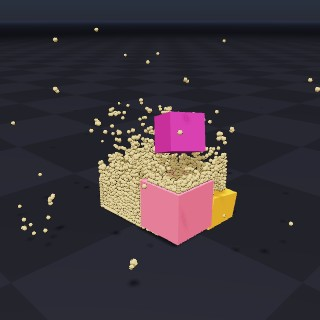
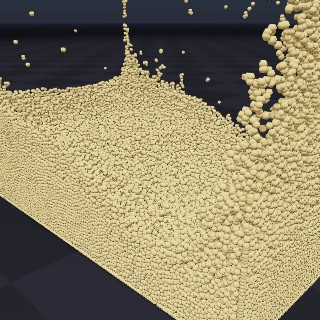
Improve position based fluids

diff --git a/newton/examples/pbf/example_pbf_dam_break.py b/newton/examples/pbf/example_pbf_dam_break.py
@@ -5,10 +5,10 @@
 # Example PBF Dam Break
 #
 # Demonstrates Position-Based Fluids (PBF) integrated into the XPBD solver.
-# A column of fluid particles collapses under gravity and interacts with
-# rigid bodies and container walls.
+# A column of fluid particles collapses under gravity and spreads across
+# an initially empty tank.
 #
-# Material parameters follow the PhysX PBD default material.
+# The optional material effects can be adjusted from the command line.
 #
 # Command: python -m newton.examples pbf_dam_break
 #
@@ -90,63 +90,19 @@ class Example:
         print(f"Particle count: {total_particles}")
         print(f"Fluid block: {fluid_extent_x:.2f} x {fluid_extent_y:.2f} x {fluid_extent_z:.2f} m")
 
-        # --- Container walls (invisible static boxes) ---
-        wall_thickness = 0.1
+        # --- Container walls ---
+        containment_tolerance = 0.1
         container_hx = fluid_extent_x * 0.9
         container_hy = fluid_extent_y * 0.55
-        container_hz = fluid_extent_z * 1.2
+        container_hz = fluid_extent_z * 1.8
 
         wall_cfg = newton.ModelBuilder.ShapeConfig(mu=0.3, is_visible=False)
-
-        # back wall (-X)
-        builder.add_shape_box(
-            body=-1,
-            cfg=wall_cfg,
-            xform=wp.transform(wp.vec3(-container_hx - wall_thickness, 0.0, container_hz * 0.5), wp.quat_identity()),
-            hx=wall_thickness,
-            hy=container_hy + wall_thickness,
-            hz=container_hz * 0.5,
-        )
-        # front wall (+X)
-        builder.add_shape_box(
-            body=-1,
-            cfg=wall_cfg,
-            xform=wp.transform(wp.vec3(container_hx + wall_thickness, 0.0, container_hz * 0.5), wp.quat_identity()),
-            hx=wall_thickness,
-            hy=container_hy + wall_thickness,
-            hz=container_hz * 0.5,
-        )
-        # left wall (-Y)
-        builder.add_shape_box(
-            body=-1,
-            cfg=wall_cfg,
-            xform=wp.transform(wp.vec3(0.0, -container_hy - wall_thickness, container_hz * 0.5), wp.quat_identity()),
-            hx=container_hx + wall_thickness,
-            hy=wall_thickness,
-            hz=container_hz * 0.5,
-        )
-        # right wall (+Y)
-        builder.add_shape_box(
-            body=-1,
-            cfg=wall_cfg,
-            xform=wp.transform(wp.vec3(0.0, container_hy + wall_thickness, container_hz * 0.5), wp.quat_identity()),
-            hx=container_hx + wall_thickness,
-            hy=wall_thickness,
-            hz=container_hz * 0.5,
-        )
-
-        # --- Dynamic rigid bodies ---
-        box_cfg = newton.ModelBuilder.ShapeConfig(density=300.0, mu=0.3)
-        box_size = particle_spacing * 6.0
-
-        b = builder.add_body(xform=wp.transform(wp.vec3(0.2, 0.0, box_size), wp.quat_identity()))
-        builder.add_shape_box(body=b, cfg=box_cfg, hx=box_size, hy=box_size, hz=box_size)
-
-        b = builder.add_body(xform=wp.transform(wp.vec3(0.2, 0.0, box_size * 3.5), wp.quat_identity()))
-        builder.add_shape_box(body=b, cfg=box_cfg, hx=box_size * 0.7, hy=box_size * 0.7, hz=box_size * 0.7)
-
-        b = builder.add_body(xform=wp.transform(wp.vec3(0.05, 0.2, box_size), wp.quat_identity()))
-        builder.add_shape_box(body=b, cfg=box_cfg, hx=box_size * 0.8, hy=box_size * 0.8, hz=box_size * 0.8)
+        # Infinite planes remain robust when a density correction moves a
+        # particle beyond the nominal wall within one solver iteration.
+        builder.add_shape_plane((1.0, 0.0, 0.0, container_hx), width=0.0, length=0.0, cfg=wall_cfg)
+        builder.add_shape_plane((-1.0, 0.0, 0.0, container_hx), width=0.0, length=0.0, cfg=wall_cfg)
+        builder.add_shape_plane((0.0, 1.0, 0.0, container_hy), width=0.0, length=0.0, cfg=wall_cfg)
+        builder.add_shape_plane((0.0, -1.0, 0.0, container_hy), width=0.0, length=0.0, cfg=wall_cfg)
 
         # Ground
         builder.add_ground_plane(cfg=newton.ModelBuilder.ShapeConfig(mu=0.3))
@@ -183,6 +139,14 @@ class Example:
         self.contacts = self.model.contacts()
 
         self.particle_count = self.model.particle_count
+        self.particle_radius = particle_radius
+        self.container_hx = container_hx
+        self.container_hy = container_hy
+        self.container_hz = container_hz
+        self.containment_tolerance = containment_tolerance
+        self.gravity_magnitude = float(np.linalg.norm(args.gravity))
+        initial_q = self.state_0.particle_q.numpy()
+        self.initial_x_span = float(np.ptp(initial_q[:, 0]))
         self.colors = wp.zeros(self.particle_count, dtype=wp.vec3, device=self.model.device)
 
         self.viewer.set_model(self.model)
@@ -203,10 +167,33 @@ class Example:
 
     def test_final(self):
         q = self.state_0.particle_q.numpy()
-        min_z = np.min(q[:, 2])
-        max_z = np.max(q[:, 2])
-        assert min_z > -0.1, f"Particles fell through ground: min_z={min_z}"
-        assert max_z < 5.0, f"Particles exploded: max_z={max_z}"
+        qd = self.state_0.particle_qd.numpy()
+        assert len(q) == self.particle_count, f"Particle count changed: {len(q)} != {self.particle_count}"
+        assert np.isfinite(q).all(), "Particle positions contain NaN or infinity"
+        assert np.isfinite(qd).all(), "Particle velocities contain NaN or infinity"
+
+        outer_x = self.container_hx + 2.0 * self.containment_tolerance + 2.0 * self.particle_radius
+        outer_y = self.container_hy + 2.0 * self.containment_tolerance + 2.0 * self.particle_radius
+        max_abs_x = float(np.max(np.abs(q[:, 0])))
+        max_abs_y = float(np.max(np.abs(q[:, 1])))
+        min_z = float(np.min(q[:, 2]))
+        assert max_abs_x < outer_x, f"Particles leaked through an X container wall: {max_abs_x} >= {outer_x} m"
+        assert max_abs_y < outer_y, f"Particles leaked through a Y container wall: {max_abs_y} >= {outer_y} m"
+        assert min_z > -4.0 * self.particle_radius, f"Particles leaked through the ground: z={min_z} m"
+
+        speed_limit = max(10.0, 10.0 * np.sqrt(2.0 * self.gravity_magnitude * self.container_hz))
+        max_speed = float(np.max(np.linalg.norm(qd, axis=1)))
+        assert max_speed < speed_limit, f"Particle velocity is unbounded: {max_speed} >= {speed_limit} m/s"
+
+        max_height = 4.0 * self.container_hz + 1.0
+        observed_height = float(np.max(q[:, 2]))
+        assert observed_height < max_height, (
+            f"Particles escaped far above the tank: {observed_height} >= {max_height} m"
+        )
+        final_x_span = float(np.ptp(q[:, 0]))
+        assert final_x_span > 1.05 * self.initial_x_span, (
+            f"Fluid column did not spread after release: {final_x_span} <= {1.05 * self.initial_x_span} m"
+        )
 
     def render(self):
         wp.launch(
@@ -240,17 +227,12 @@ class Example:
         parser.add_argument("--dim-x", type=int, default=46, help="Fluid grid X dimension")
         parser.add_argument("--dim-y", type=int, default=46, help="Fluid grid Y dimension")
         parser.add_argument("--dim-z", type=int, default=46, help="Fluid grid Z dimension")
-        # Reference PBD material values for the supported fluid properties.
-        parser.add_argument("--relaxation", type=float, default=1.0, help="PBF SOR relaxation (PhysX=1.0)")
-        parser.add_argument("--viscosity", type=float, default=0.0001, help="PBF viscosity (PhysX default=0.0001)")
-        parser.add_argument("--cohesion", type=float, default=0.005, help="PBF cohesion (PhysX default=0.005)")
-        parser.add_argument(
-            "--surface-tension", type=float, default=0.005, help="PBF surface tension (PhysX default=0.005)"
-        )
-        parser.add_argument(
-            "--vorticity", type=float, default=5.0, help="PBF vorticity confinement (PhysX default=5.0)"
-        )
-        parser.add_argument("--cfl", type=float, default=1.0, help="PBF CFL coefficient (PhysX default=1.0)")
+        parser.add_argument("--relaxation", type=float, default=1.0, help="PBF SOR relaxation")
+        parser.add_argument("--viscosity", type=float, default=0.0001, help="PBF viscosity")
+        parser.add_argument("--cohesion", type=float, default=0.005, help="PBF cohesion")
+        parser.add_argument("--surface-tension", type=float, default=0.005, help="PBF surface tension")
+        parser.add_argument("--vorticity", type=float, default=5.0, help="PBF vorticity confinement")
+        parser.add_argument("--cfl", type=float, default=1.0, help="PBF CFL coefficient")
         parser.add_argument("--iterations", type=int, default=4, help="XPBD/PBF iterations")
         parser.add_argument("--substeps", type=int, default=8, help="Substeps per frame")
         parser.add_argument(

diff --git a/newton/tests/test_solver_xpbd.py b/newton/tests/test_solver_xpbd.py
@@ -1439,6 +1439,29 @@ def test_position_based_fluids(test, device):
     contact_positions = contact_state_1.particle_q.numpy()
     test.assertGreater(np.linalg.norm(contact_positions[1] - contact_positions[0]), 0.1)
 
+    mixed_builder = newton.ModelBuilder()
+    mixed_builder.add_particles(
+        pos=[wp.vec3(0.0), wp.vec3(0.1, 0.0, 0.0)],
+        vel=[wp.vec3(0.0)] * 2,
+        mass=[1.0] * 2,
+        radius=[0.1] * 2,
+        flags=[fluid_flags, int(newton.ParticleFlags.ACTIVE)],
+    )
+    mixed_model = mixed_builder.finalize(device=device)
+    mixed_model.set_gravity((0.0, 0.0, 0.0))
+    mixed_solver = newton.solvers.SolverXPBD(
+        mixed_model,
+        iterations=2,
+        pbf_particle_contact_distance=0.2,
+        pbf_fluid_rest_distance=0.1,
+    )
+    mixed_state_0 = mixed_model.state()
+    mixed_state_1 = mixed_model.state()
+    mixed_solver.step(mixed_state_0, mixed_state_1, mixed_model.control(), mixed_model.contacts(), 0.01)
+    mixed_positions = mixed_state_1.particle_q.numpy()
+    test.assertGreater(np.linalg.norm(mixed_positions[1] - mixed_positions[0]), 0.1)
+    np.testing.assert_allclose(np.mean(mixed_positions, axis=0), [0.05, 0.0, 0.0], atol=1.0e-6)
+
     spacing = 0.04
     positions = [wp.vec3(x * spacing, y * spacing, z * spacing) for z in range(4) for y in range(4) for x in range(4)]
     particle_count = len(positions)
@@ -1534,7 +1557,6 @@ def test_position_based_fluids_reference_stages(test, device):
     lambda_scale = 1.0 / lambda_denominator
     surface_tension = 0.003
     model.particle_grid.build(state.particle_q, radius=radius)
-
     densities = wp.zeros(particle_count, dtype=float, device=device)
     normals = wp.zeros(particle_count, dtype=wp.vec3, device=device)
     wp.launch(

diff --git a/newton/_src/solvers/xpbd/kernels.py b/newton/_src/solvers/xpbd/kernels.py
@@ -267,13 +267,11 @@ def solve_particle_particle_contacts(
     delta = wp.vec3(0.0)
 
     is_fluid_i = (particle_flags[i] & ParticleFlags.FLUID) != 0
+    if skip_fluid_fluid and is_fluid_i:
+        return
 
     while wp.hash_grid_query_next(query, index):
         if (particle_flags[index] & ParticleFlags.ACTIVE) != 0 and index != i:
-            # Skip fluid-fluid pairs — handled by PBF density constraint
-            if skip_fluid_fluid and is_fluid_i and (particle_flags[index] & ParticleFlags.FLUID) != 0:
-                continue
-
             # compute distance to point
             n = x - particle_x[index]
             d = wp.length(n)
@@ -297,7 +295,13 @@ def solve_particle_particle_contacts(
 
                 lambda_f = wp.max(k_mu * lambda_n, -wp.length(vt) * dt)
                 delta_f = wp.normalize(vt) * lambda_f
-                delta += (delta_f - delta_n) / denom
+                pair_delta = (delta_f - delta_n) / denom
+                delta += pair_delta
+
+                # Fluid threads skip this kernel because PBF resolves their
+                # mutual contacts. Apply the opposite side of a mixed pair here.
+                if skip_fluid_fluid and (particle_flags[index] & ParticleFlags.FLUID) != 0:
+                    wp.atomic_sub(deltas, index, pair_delta * w2 * relaxation)
 
     wp.atomic_add(deltas, i, delta * w1 * relaxation)
 

diff --git a/newton/_src/solvers/xpbd/pbf_kernels.py b/newton/_src/solvers/xpbd/pbf_kernels.py
@@ -99,7 +99,11 @@ def solve_density(
     weights: wp.array[float],
 ):
     i = wp.hash_grid_point_id(grid, wp.tid())
-    if i < 0 or not _is_active_fluid(particle_flags[i]) or particle_inv_mass[i] == 0.0:
+    if i < 0 or not _is_active_fluid(particle_flags[i]):
+        return
+    if particle_inv_mass[i] == 0.0:
+        deltas[i] = wp.vec3(0.0)
+        weights[i] = 0.0
         return
 
     xi = particle_q[i]

diff --git a/newton/_src/solvers/xpbd/solver_xpbd.py b/newton/_src/solvers/xpbd/solver_xpbd.py
@@ -607,8 +607,6 @@ class SolverXPBD(SolverBase):
                                 with wp.ScopedDevice(model.device):
                                     model.particle_grid.build(particle_q, radius=grid_search_radius)
 
-                            self._pbf_densities.zero_()
-                            self._pbf_surface_normals.zero_()
                             wp.launch(
                                 kernel=calculate_density,
                                 dim=model.particle_count,
@@ -631,8 +629,6 @@ class SolverXPBD(SolverBase):
                             # Compute displacement from predicted position for viscosity/CFL
                             pbf_delta_pos = self._pbf_accum_delta
 
-                            self._pbf_deltas.zero_()
-                            self._pbf_weights.zero_()
                             wp.launch(
                                 kernel=solve_density,
                                 dim=model.particle_count,

diff --git a/newton/tests/test_examples.py b/newton/tests/test_examples.py
@@ -727,7 +727,7 @@ add_example_test(
     TestPBFExamples,
     name="pbf.example_pbf_dam_break",
     devices=cuda_test_devices,
-    test_options={"num-frames": 5, "dim-x": 8, "dim-y": 8, "dim-z": 8, "substeps": 2},
+    test_options={"num-frames": 60, "dim-x": 12, "dim-y": 8, "dim-z": 16, "substeps": 4},
     use_viewer=True,
 )
 